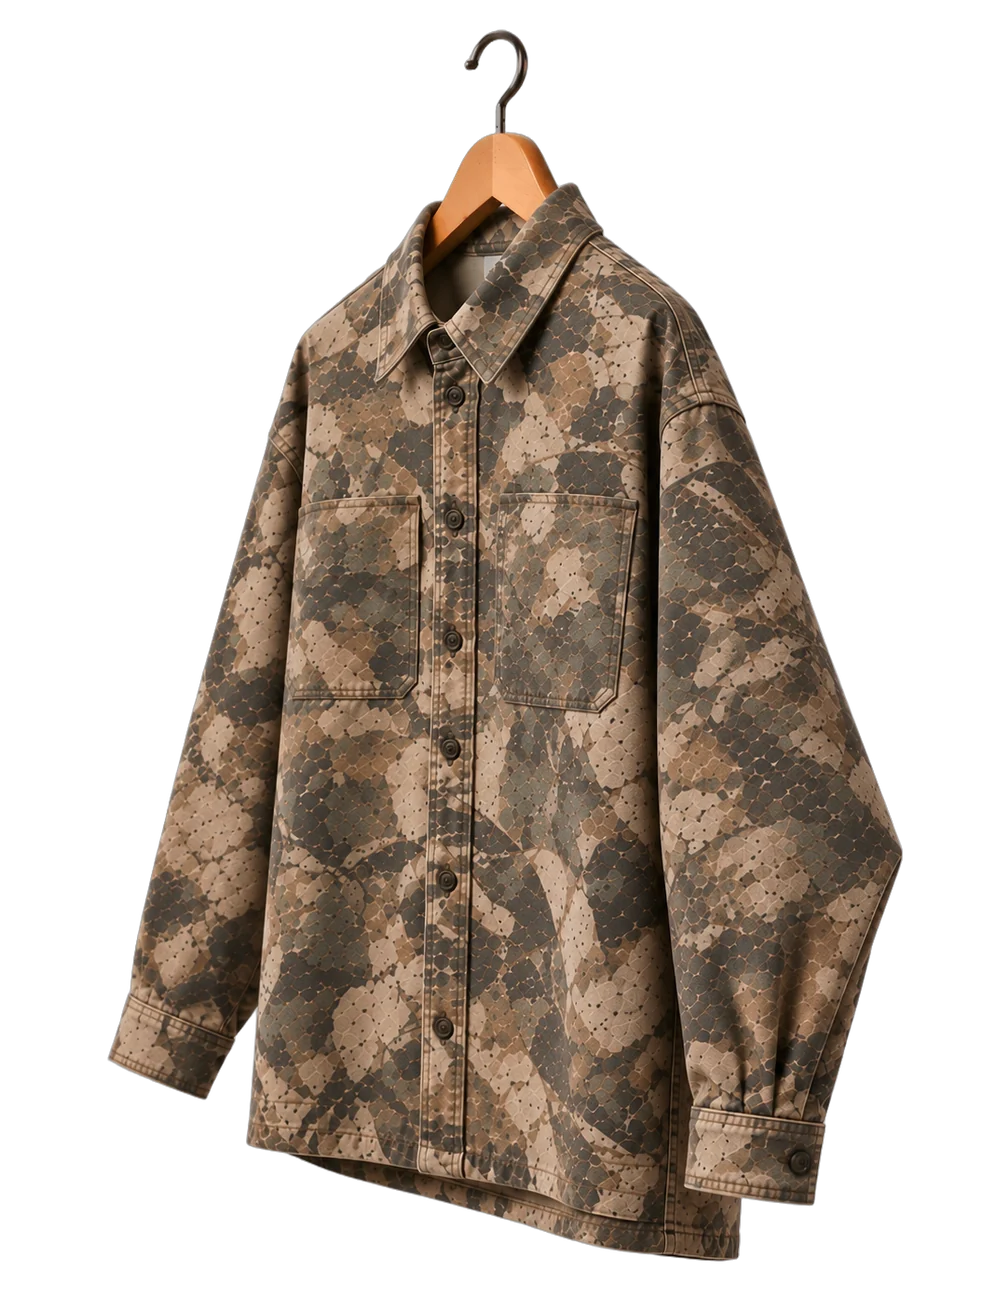
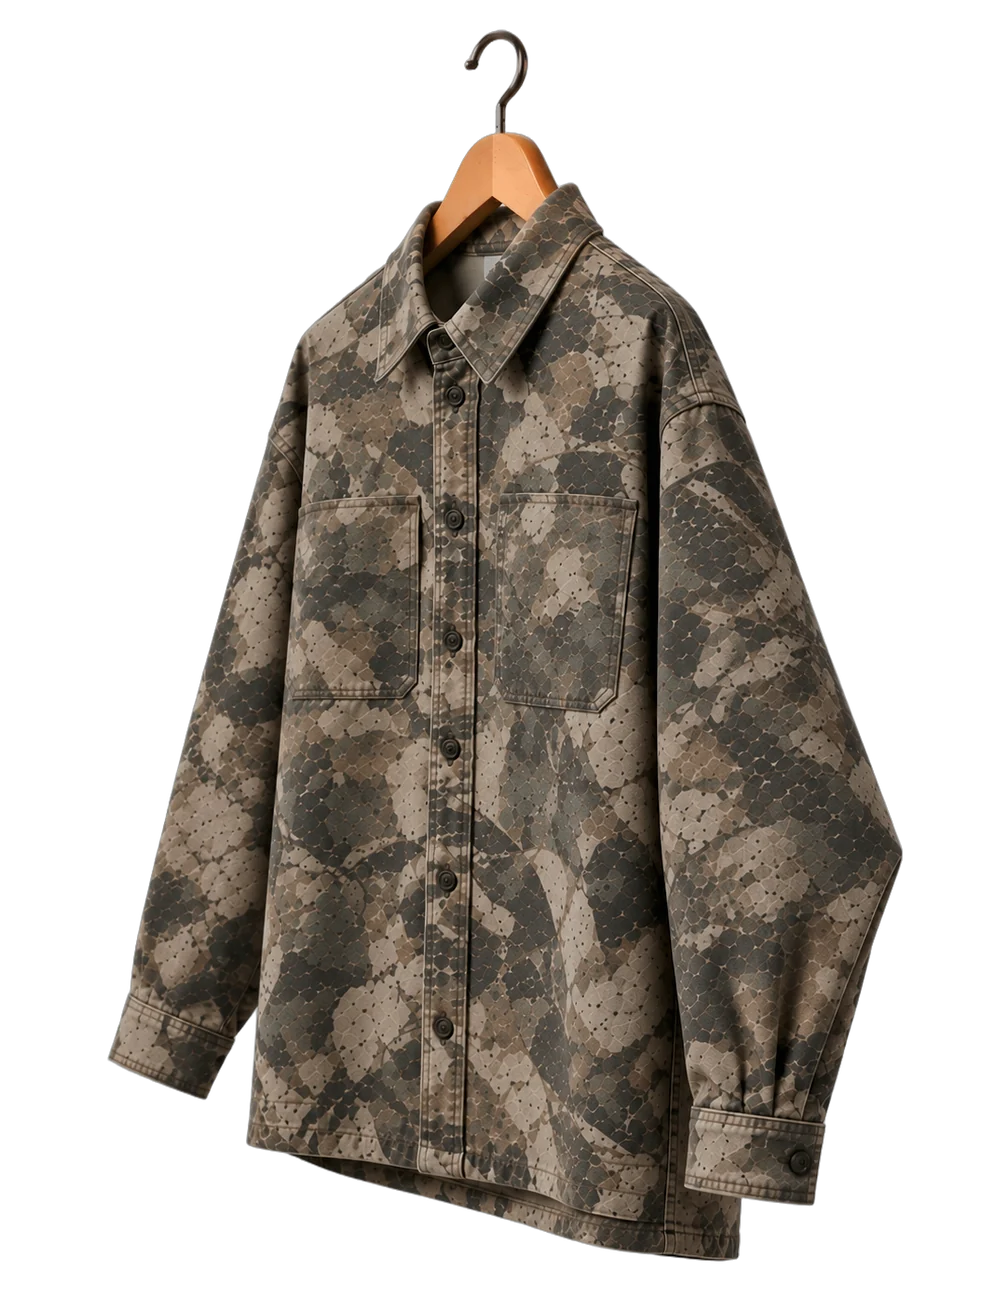
giro sin imagen doble, color igualado y sin cursor View
- Las vistas intermedias entran debajo de la anterior, comprimidas a su
  ancho, y se abren; la saliente se desvanece encima. Ya no se ve la
  prenda transparente ni duplicada a mitad del giro.
- Cada paso del giro dura según cuánto cambia la silueta.
- El ancho del espacio acompaña al giro en lugar de adelantarse.
- procesar_assets.py iguala en LAB el color de los ángulos intermedios
  al de la vista de frente.
- Se quita el cursor View.

Claude-Session: https://claude.ai/code/session_01MAyo22dyL4XR5G33iWNR8Q

diff --git a/web/app.js b/web/app.js
@@ -3,8 +3,9 @@
  * Every garment is a stack of cut-outs (side 80° → … → front 0°) that share one
  * canvas with the hanger hook at the same point. A "turn" renders a progress p
  * (0 = side, 1 = front) over that stack: garments with real in-between angles
- * crossfade through them; garments with only side + front get a 3D swing
- * (the side view swings away, the front swings in from the hook).
+ * step through them (each new view starts squeezed to the previous one's width
+ * and opens up underneath it, so there is no see-through double image);
+ * garments with only side + front get a 3D swing instead.
  * The rack slot widens with the turn and pushes its neighbours aside.
  */
 (() => {
@@ -39,7 +40,6 @@
   const handle = $("handle");
   const detailSee = $("detail-see");
   const closeBtn = $("close");
-  const cursor = $("cursor");
 
   let items = [];
   let garmentH = 420;
@@ -76,7 +76,14 @@
       return img;
     });
     container.appendChild(box);
-    return { frames, imgs, p: 0 };
+    // Give each step time in proportion to how much the silhouette changes,
+    // so near-identical views don't stall the turn.
+    const weights = frames.slice(1).map((f, k) => Math.max(0.22, Math.abs(extent(f) - extent(frames[k]))));
+    const total = weights.reduce((a, b) => a + b, 0);
+    const stops = [0];
+    weights.forEach((w) => stops.push(stops.at(-1) + w / total));
+    stops[stops.length - 1] = 1;
+    return { frames, imgs, stops, p: 0 };
   }
 
   function renderTurn(t) {
@@ -98,27 +105,46 @@
       return;
     }
 
-    const x = p * (n - 1);
-    const i = Math.min(Math.floor(x), n - 1);
-    const f = x - i;
+    const [i, f] = segment(t, p);
+    const ratio = extent(frames[i]) / extent(frames[i + 1]);
     imgs.forEach((img, k) => {
-      img.style.opacity = k === i ? 1 : k === i + 1 ? f : 0;
+      if (k === i) {
+        // Outgoing view stays on top and fades, easing toward the next width.
+        img.style.zIndex = "2";
+        img.style.opacity = 1 - smooth(clamp((f - 0.15) / 0.6));
+        img.style.transform = `scaleX(${lerp(1, Math.min(1 / ratio, 1.3), smooth(f))})`;
+      } else if (k === i + 1) {
+        // Incoming view sits underneath, starts at the outgoing width and opens up.
+        img.style.zIndex = "1";
+        img.style.opacity = smooth(clamp(f / 0.25));
+        img.style.transform = `scaleX(${lerp(ratio, 1, smooth(f))})`;
+      } else {
+        img.style.zIndex = "0";
+        img.style.opacity = 0;
+        img.style.transform = "";
+      }
     });
+  }
+
+  // Which step of the turn p falls in, and how far through it.
+  function segment(t, p) {
+    const { stops } = t;
+    let i = 0;
+    while (i < stops.length - 2 && p >= stops[i + 1]) i++;
+    return [i, clamp((p - stops[i]) / (stops[i + 1] - stops[i]))];
   }
 
   /* ---------- geometry ---------- */
 
-  function extentAt(frames, p) {
-    const n = frames.length;
-    const x = clamp(p) * (n - 1);
-    const i = Math.min(Math.floor(x), n - 2);
-    return lerp(extent(frames[i]), extent(frames[i + 1]), x - i);
+  function extentAt(t, p) {
+    const [i, f] = segment(t, clamp(p));
+    return lerp(extent(t.frames[i]), extent(t.frames[i + 1]), smooth(f));
   }
 
   function slotWidth(item) {
     // wp may overshoot 1 (elastic ease) so the push bounces; the images use p.
     const wp = item.wp;
-    const e = wp <= 1 ? extentAt(item.frames, wp) : extentAt(item.frames, 1) * (1 + (wp - 1) * 0.6);
+    const e = wp <= 1 ? extentAt(item.turn, wp) : extentAt(item.turn, 1) * (1 + (wp - 1) * 0.6);
     return e * lerp(PACK_SIDE, PACK_FRONT, clamp(wp)) * garmentW;
   }
 
@@ -182,13 +208,12 @@
       return;
     }
     const update = () => render(item);
-    gsap.to(item.turn, { p: to, duration: to ? 0.8 : 0.6, ease: "power2.inOut", onUpdate: update });
-    gsap.to(item, {
-      wp: to,
-      duration: to ? 1.15 : 0.75,
-      ease: to ? "elastic.out(1, 0.55)" : "power3.out",
-      onUpdate: update,
-    });
+    const d = item.frames.length > 2 ? 1 : 0.8;
+    gsap.to(item.turn, { p: to, duration: to ? d : 0.6, ease: "power2.inOut", onUpdate: update });
+    // The slot widens with the garment (not ahead of it) and settles with a small push.
+    gsap.to(item, to
+      ? { keyframes: [{ wp: 1.05, duration: d * 0.85, ease: "power2.inOut" }, { wp: 1, duration: 0.4, ease: "power2.out" }], onUpdate: update }
+      : { wp: 0, duration: 0.6, ease: "power2.inOut", onUpdate: update });
   }
 
   function ripple(i, strength) {
@@ -306,7 +331,6 @@
     busy = true;
     clearTimeout(hoverTimer);
     clearTimeout(leaveTimer);
-    hideCursor();
     activate(i, { instant: true });
     const item = items[i];
     gsap.killTweensOf(item.swing);
@@ -417,37 +441,20 @@
     }
   }
 
-  /* ---------- cursor & rail glint ---------- */
+  /* ---------- rail glint ---------- */
 
-  let cursorX = null;
-  let cursorY = null;
   let glintX = null;
   let glintMoved = false;
 
-  function setupPointerFx() {
+  function setupGlint() {
     if (!finePointer) return;
-    document.documentElement.classList.add("has-cursor");
-    const d = reduceMotion ? 0 : 0.35;
-    cursorX = gsap.quickTo(cursor, "x", { duration: d, ease: "power3" });
-    cursorY = gsap.quickTo(cursor, "y", { duration: d, ease: "power3" });
     glintX = gsap.quickTo(glint, "x", { duration: reduceMotion ? 0 : 0.9, ease: "power3" });
     addEventListener("pointermove", (e) => {
       if (e.pointerType !== "mouse") return;
-      cursorX(e.clientX);
-      cursorY(e.clientY);
       const r = glint.parentElement.getBoundingClientRect();
       glintX(clamp(e.clientX - r.left, 0, r.width));
       glintMoved = true;
     }, { passive: true });
-  }
-
-  function showCursor() {
-    if (!finePointer || detailIndex >= 0) return;
-    gsap.to(cursor, { scale: 1, duration: dur(0.3), ease: "back.out(2)", overwrite: "auto" });
-  }
-  function hideCursor() {
-    if (!finePointer) return;
-    gsap.to(cursor, { scale: 0, duration: dur(0.2), ease: "power2.in", overwrite: "auto" });
   }
 
   /* ---------- build ---------- */
@@ -483,12 +490,10 @@
         clearTimeout(leaveTimer);
         clearTimeout(hoverTimer);
         hoverTimer = setTimeout(() => activate(i), HOVER_DELAY);
-        showCursor();
       });
       slot.addEventListener("pointerleave", (e) => {
         if (e.pointerType !== "mouse") return;
         clearTimeout(hoverTimer);
-        hideCursor();
       });
       // Keyboard focus turns the garment; a tap's focus is left to the click handler.
       slot.addEventListener("focus", () => { if (detailIndex < 0 && slot.matches(":focus-visible")) activate(i); });
@@ -573,7 +578,7 @@
     const data = await fetch("prendas.json").then((r) => r.json());
     buildRack(data);
     wire();
-    setupPointerFx();
+    setupGlint();
     layout();
     setCaption(null);
     await firstFramesReady();

diff --git a/web/styles.css b/web/styles.css
@@ -189,7 +189,6 @@ body {
   cursor: pointer;
   -webkit-tap-highlight-color: transparent;
 }
-.has-cursor .slot { cursor: none; }
 .slot:focus-visible { outline: none; }
 .slot:focus-visible::after {
   content: "";
@@ -274,29 +273,6 @@ body {
 .detail__arrow:focus-visible, .handle:focus-visible, .sizes button:focus-visible {
   outline: 2px solid var(--ink);
   outline-offset: 3px;
-}
-
-/* ---------- custom cursor ---------- */
-.cursor {
-  position: fixed;
-  left: 0;
-  top: 0;
-  z-index: 50;
-  width: 64px;
-  height: 64px;
-  margin: -32px 0 0 -32px;
-  border-radius: 50%;
-  background: var(--ink);
-  color: var(--paper);
-  display: grid;
-  place-items: center;
-  pointer-events: none;
-  transform: scale(0);
-}
-.cursor span {
-  font: 500 9.5px/1 var(--font-ui);
-  letter-spacing: .18em;
-  text-transform: uppercase;
 }
 
 /* ---------- detail ---------- */

diff --git a/web/index.html b/web/index.html
@@ -58,8 +58,6 @@
     </section>
   </main>
 
-  <div class="cursor" id="cursor" aria-hidden="true"><span>View</span></div>
-
   <footer class="band" aria-hidden="true">
     <div class="band__track" id="band-track"></div>
   </footer>

diff --git a/tools/procesar_assets.py b/tools/procesar_assets.py
@@ -71,6 +71,32 @@ def place(arr, scale):
     return canvas
 
 
+def match_color(canvas, ref):
+    """Iguala el color de una vista intermedia al de la vista de frente.
+
+    Los ángulos intermedios se generan aparte y suelen salir con otro tono;
+    sin esto el giro "cambia de color" al llegar al frente. Se transfieren
+    media y desviación en espacio LAB, midiendo solo la tela (debajo del
+    gancho) y sin tocar el gancho.
+    """
+    import cv2
+
+    def lab_stats(arr):
+        lab = cv2.cvtColor(arr[:, :, :3], cv2.COLOR_RGB2LAB).astype(np.float32)
+        m = arr[:, :, 3] > 200
+        m[: int(0.22 * CANVAS_H)] = False
+        return lab, lab[m].mean(0), lab[m].std(0) + 1e-3
+
+    arr = np.array(canvas)
+    lab, mean, std = lab_stats(arr)
+    _, ref_mean, ref_std = lab_stats(np.array(ref))
+    graded = (lab - mean) / std * ref_std + ref_mean
+    ramp = np.clip((np.arange(CANVAS_H) / CANVAS_H - 0.15) / 0.07, 0, 1)[:, None, None]
+    lab = lab * (1 - ramp) + graded * ramp
+    arr[:, :, :3] = cv2.cvtColor(np.clip(lab, 0, 255).astype(np.uint8), cv2.COLOR_LAB2RGB)
+    return Image.fromarray(arr)
+
+
 def extent(canvas):
     """Ancho visible de la prenda, medido desde el gancho, en fracción del lienzo."""
     a = np.array(canvas)[:, :, 3]
@@ -90,11 +116,17 @@ def main():
 
         out_dir = OUT_IMG / item_id
         out_dir.mkdir(parents=True, exist_ok=True)
-        frames = []
-        for angle, arr in cutouts.items():
+        def placed(arr):
             # Todas las vistas se escalan a la misma altura (gancho → dobladillo).
             _, t, b = hook_anchor(arr[:, :, 3])
-            canvas = place(arr, GARMENT_H / (b - t))
+            return place(arr, GARMENT_H / (b - t))
+
+        front = placed(cutouts[0])
+        frames = []
+        for angle, arr in cutouts.items():
+            canvas = front if angle == 0 else placed(arr)
+            if angle not in (0, 80):
+                canvas = match_color(canvas, front)
             canvas.save(out_dir / f"{angle}.webp", "WEBP", quality=86, method=6)
             left, right = extent(canvas)
             frames.append({"angle": angle, "src": f"prendas/{item_id}/{angle}.webp", "left": left, "right": right})
